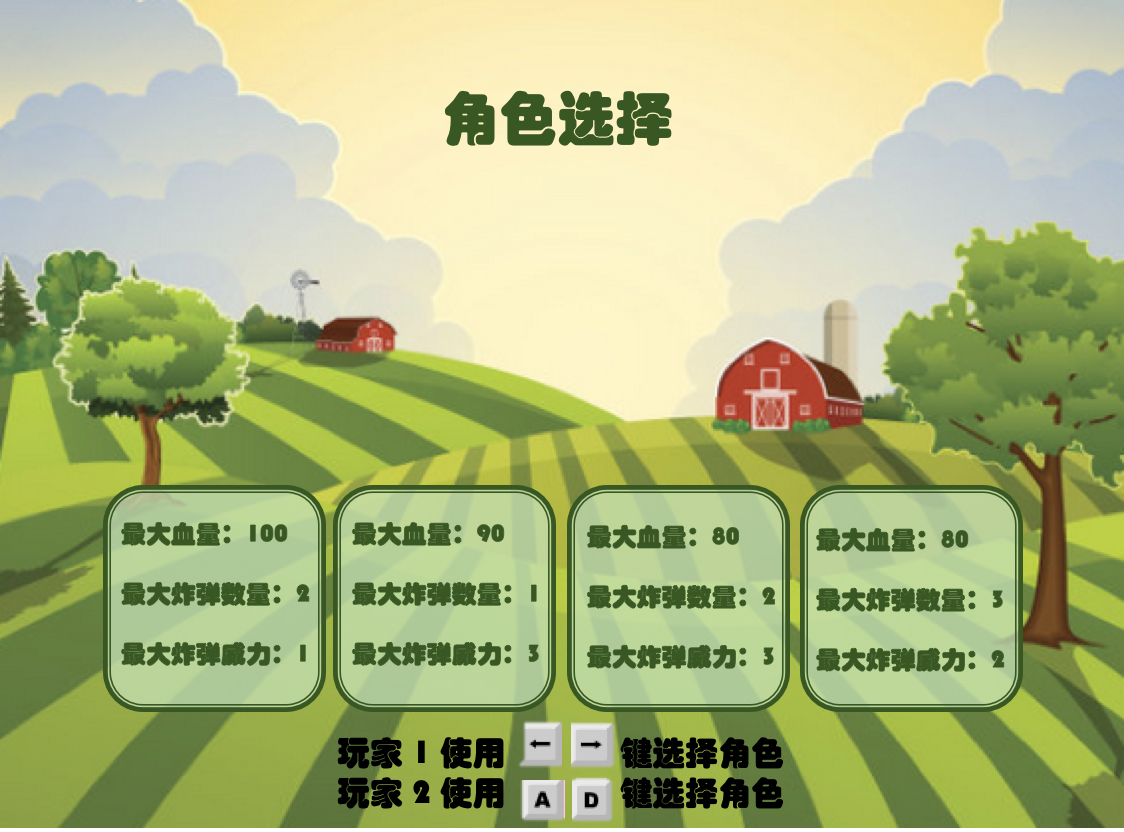
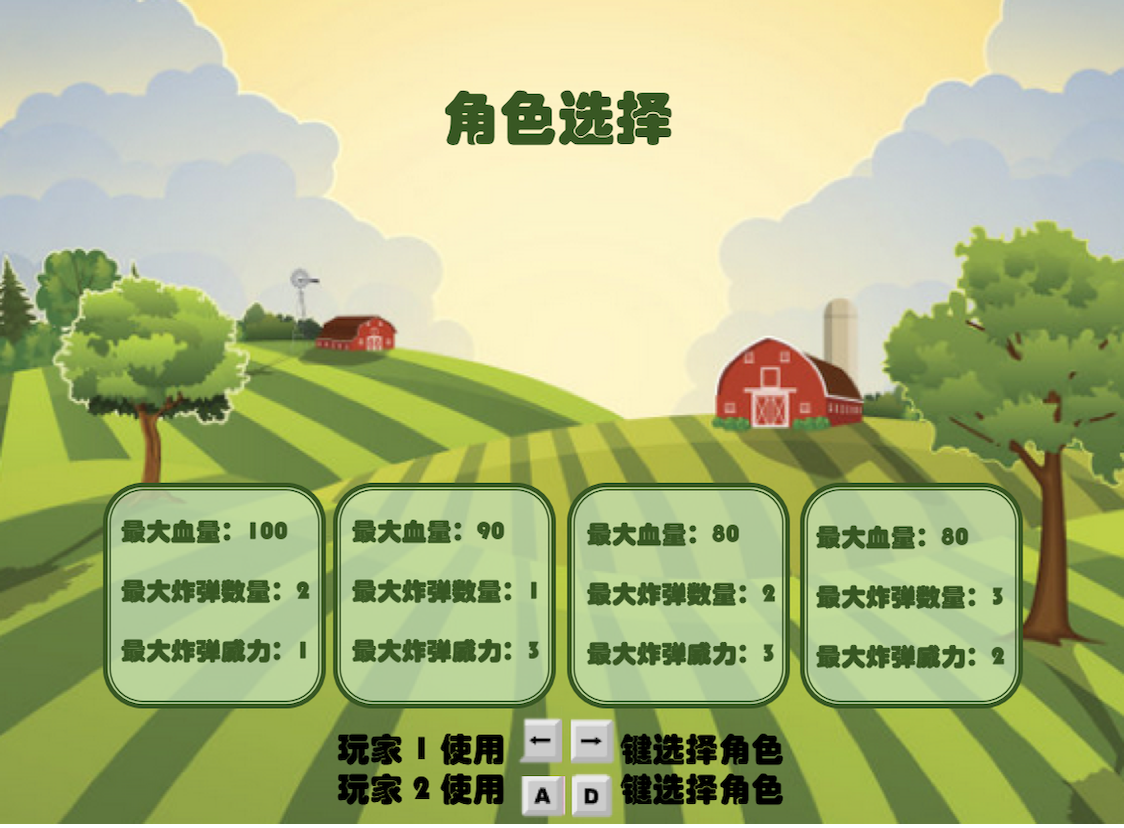
small changes of ui position

diff --git a/src/ui/ChoosePlayerPanel.java b/src/ui/ChoosePlayerPanel.java
@@ -91,7 +91,7 @@ public class ChoosePlayerPanel extends JPanel implements AWTEventListener, GameC
 		p1ArrayIcon = new ImageIcon("image/buttons/p1array.png");
 		p1ArrayIcon.setImage(p1ArrayIcon.getImage().getScaledInstance(50, 100, 1));
 		p1Array = new JLabel(p1ArrayIcon);
-		p1Array.setBounds(190, 130, 60, 100);
+		p1Array.setBounds(230, 160, 60, 100);
 
 		this.add(p1Array);
 
@@ -100,7 +100,7 @@ public class ChoosePlayerPanel extends JPanel implements AWTEventListener, GameC
 			p2ArrayIcon = new ImageIcon("image/buttons/p2array.png");
 			p2ArrayIcon.setImage(p2ArrayIcon.getImage().getScaledInstance(50, 100, 1));
 			p2Array = new JLabel(p2ArrayIcon);
-			p2Array.setBounds(130, 130, 60, 100);
+			p2Array.setBounds(170, 160, 60, 100);
 			this.add(p2Array);
 		}
 
@@ -123,10 +123,10 @@ public class ChoosePlayerPanel extends JPanel implements AWTEventListener, GameC
 		p3Label = new JLabel(p3Icon);
 		p4Label = new JLabel(p4Icon);
 
-		p1Label.setBounds(100, 230, 160, 160);
-		p2Label.setBounds(300, 230, 160, 160);
-		p3Label.setBounds(500, 230, 160, 160);
-		p4Label.setBounds(700, 230, 160, 160);
+		p1Label.setBounds(150, 280, 160, 160);
+		p2Label.setBounds(350, 280, 160, 160);
+		p3Label.setBounds(550, 280, 160, 160);
+		p4Label.setBounds(750, 280, 160, 160);
 		this.add(p1Label);
 		this.add(p2Label);
 		this.add(p3Label);
@@ -207,16 +207,16 @@ public class ChoosePlayerPanel extends JPanel implements AWTEventListener, GameC
 
 			switch (player1CID) {
 			case 0:
-				p1Array.setBounds(190, 130, 60, 100);
+				p1Array.setBounds(230, 160, 60, 100);
 				break;
 			case 1:
-				p1Array.setBounds(390, 130, 60, 100);
+				p1Array.setBounds(430, 160, 60, 100);
 				break;
 			case 2:
-				p1Array.setBounds(590, 130, 60, 100);
+				p1Array.setBounds(630, 160, 60, 100);
 				break;
 			case 3:
-				p1Array.setBounds(790, 130, 60, 100);
+				p1Array.setBounds(830, 160, 60, 100);
 				break;
 			}
 
@@ -235,16 +235,16 @@ public class ChoosePlayerPanel extends JPanel implements AWTEventListener, GameC
 
 				switch (player2CID) {
 				case 0:
-					p2Array.setBounds(130, 130, 60, 100);
+					p2Array.setBounds(170, 160, 60, 100);
 					break;
 				case 1:
-					p2Array.setBounds(330, 130, 60, 100);
+					p2Array.setBounds(370, 160, 60, 100);
 					break;
 				case 2:
-					p2Array.setBounds(530, 130, 60, 100);
+					p2Array.setBounds(570, 160, 60, 100);
 					break;
 				case 3:
-					p2Array.setBounds(730, 130, 60, 100);
+					p2Array.setBounds(770, 160, 60, 100);
 					break;
 				}
 			}

diff --git a/src/ui/StagePanel.java b/src/ui/StagePanel.java
@@ -101,7 +101,7 @@ public class StagePanel extends JPanel implements GameConstants {
 		buttonBackOnIcon.setImage(buttonBackOnIcon.getImage().getScaledInstance(SCALED_BUTTON_WIDTH, SCALED_BUTTON_HEIGHT, 1));
 
 		buttonBackLabel = new JLabel(buttonBackOffIcon);
-		buttonBackLabel.setBounds(0, 650, SCALED_BUTTON_WIDTH, SCALED_BUTTON_HEIGHT);
+		buttonBackLabel.setBounds(100, 680, SCALED_BUTTON_WIDTH, SCALED_BUTTON_HEIGHT);
 		this.add(buttonBackLabel);
 
 		// confirm
@@ -113,7 +113,7 @@ public class StagePanel extends JPanel implements GameConstants {
 		buttonConfirmOnIcon.setImage(buttonConfirmOnIcon.getImage().getScaledInstance(SCALED_BUTTON_WIDTH, SCALED_BUTTON_HEIGHT, 1));
 
 		buttonConfirmLabel = new JLabel(buttonConfirmOffIcon);
-		buttonConfirmLabel.setBounds(760, 650,SCALED_BUTTON_WIDTH, SCALED_BUTTON_HEIGHT);
+		buttonConfirmLabel.setBounds(800, 680,SCALED_BUTTON_WIDTH, SCALED_BUTTON_HEIGHT);
 		this.add(buttonConfirmLabel);
 
 		// forward
@@ -124,7 +124,7 @@ public class StagePanel extends JPanel implements GameConstants {
 		buttonForwardOnIcon.setImage(buttonForwardOnIcon.getImage().getScaledInstance(ARROW_WIDTH, ARROW_HEIGHT, 1));
 
 		buttonForwardLabel = new JLabel(buttonForwardOffIcon);
-		buttonForwardLabel.setBounds(780, 230, ARROW_WIDTH, ARROW_HEIGHT);
+		buttonForwardLabel.setBounds(800, 230, ARROW_WIDTH, ARROW_HEIGHT);
 		this.add(buttonForwardLabel);
 
 		// backward
@@ -136,7 +136,7 @@ public class StagePanel extends JPanel implements GameConstants {
 		buttonBackwardOnIcon.setImage(buttonBackwardOnIcon.getImage().getScaledInstance(ARROW_WIDTH, ARROW_HEIGHT, 1));
 
 		buttonBackwardLabel = new JLabel(buttonBackwardOffIcon);
-		buttonBackwardLabel.setBounds(60, 230, ARROW_WIDTH, ARROW_HEIGHT);
+		buttonBackwardLabel.setBounds(160, 230, ARROW_WIDTH, ARROW_HEIGHT);
 		this.add(buttonBackwardLabel);
 
 		buttonBackLabel.addMouseListener(new ButtonListener(mainFrame, "back"));

diff --git a/src/ui/GameOverPanel.java b/src/ui/GameOverPanel.java
@@ -48,7 +48,7 @@ public class GameOverPanel extends JPanel implements GameConstants {
 		buttonRestartOnIcon.setImage(buttonRestartOnIcon.getImage().getScaledInstance(BUTTON_WIDTH, BUTTON_HEIGHT, 1));
 
 		buttonRestartLabel = new JLabel(buttonRestartOffIcon);
-		buttonRestartLabel.setBounds(WINDOW_WIDTH / 2 - BUTTON_WIDTH / 2, 310, BUTTON_WIDTH, BUTTON_HEIGHT);
+		buttonRestartLabel.setBounds(WINDOW_WIDTH / 2 - BUTTON_WIDTH / 2, 410, BUTTON_WIDTH, BUTTON_HEIGHT);
 		this.add(buttonRestartLabel);
 
 		buttonExitOffIcon = new ImageIcon("image/buttons/exit_off.png");
@@ -58,7 +58,7 @@ public class GameOverPanel extends JPanel implements GameConstants {
 		buttonExitOnIcon.setImage(buttonExitOnIcon.getImage().getScaledInstance(BUTTON_WIDTH, BUTTON_HEIGHT, 1));
 
 		buttonExitLabel = new JLabel(buttonExitOffIcon);
-		buttonExitLabel.setBounds(WINDOW_WIDTH / 2 - BUTTON_WIDTH / 2, 410, BUTTON_WIDTH, BUTTON_HEIGHT);
+		buttonExitLabel.setBounds(WINDOW_WIDTH / 2 - BUTTON_WIDTH / 2, 610, BUTTON_WIDTH, BUTTON_HEIGHT);
 		this.add(buttonExitLabel);
 	}
 

diff --git a/src/game/GameConstants.java b/src/game/GameConstants.java
@@ -19,8 +19,8 @@ public interface GameConstants {
 	int PLAYER_MAX_BOMB = 4;
 	int MAX_PLAYER_NUMBER = 2;
 	
-	int HP_LOSS_BY_MONSTER = 5;
-	int HP_LOSS_BY_BOMB = 50;
+	int HP_LOSS_BY_MONSTER = 20;
+	int HP_LOSS_BY_BOMB = 20;
 	int HP_MAX = 100;
 	
 	
